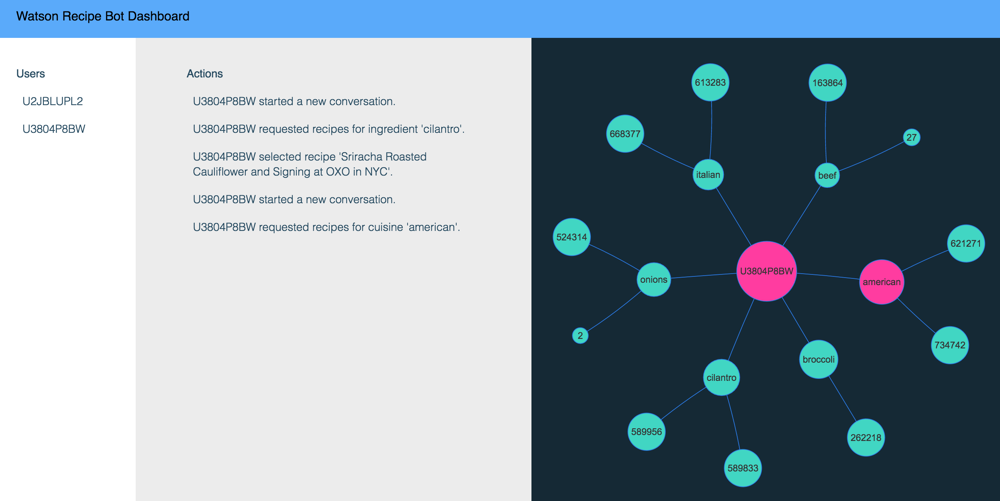
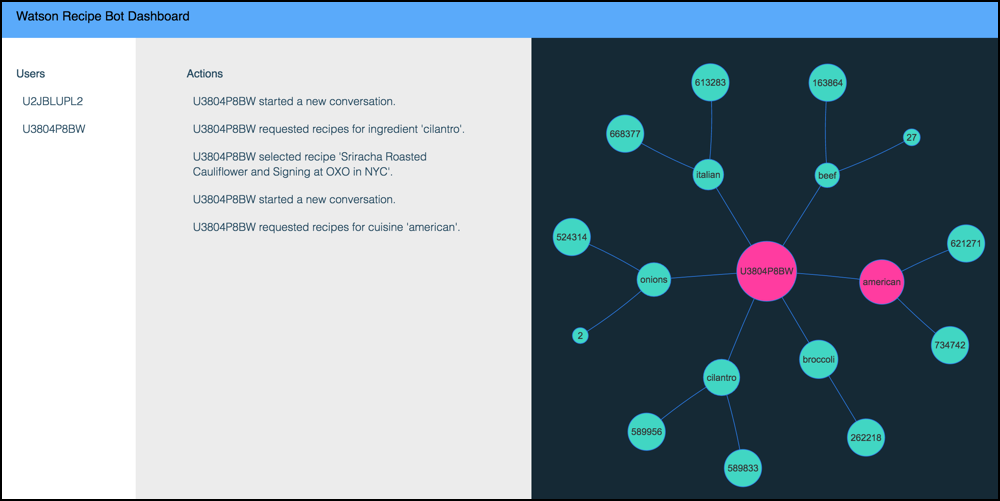
Updated README

Changed region(s): [[0.0, 0.0, 1.0, 1.0]]

diff --git a/README.md b/README.md
@@ -4,7 +4,7 @@ The Watson Recipe Bot Dashboard is a web application that shows conversations wi
 [Watson Recipe Bot](https://github.com/ibm-cds-labs/watson-recipe-bot-python-graph) as they are happening in realtime.
 Here is a sample screenshot of the dashboard:
 
-![Watson Recipe Bot Dashboard](screenshots/dashboard1.png?rev=1&raw=true)
+![Watson Recipe Bot Dashboard](screenshots/dashboard1.png?rev=2&raw=true)
 
 ### Quick Reference
 
